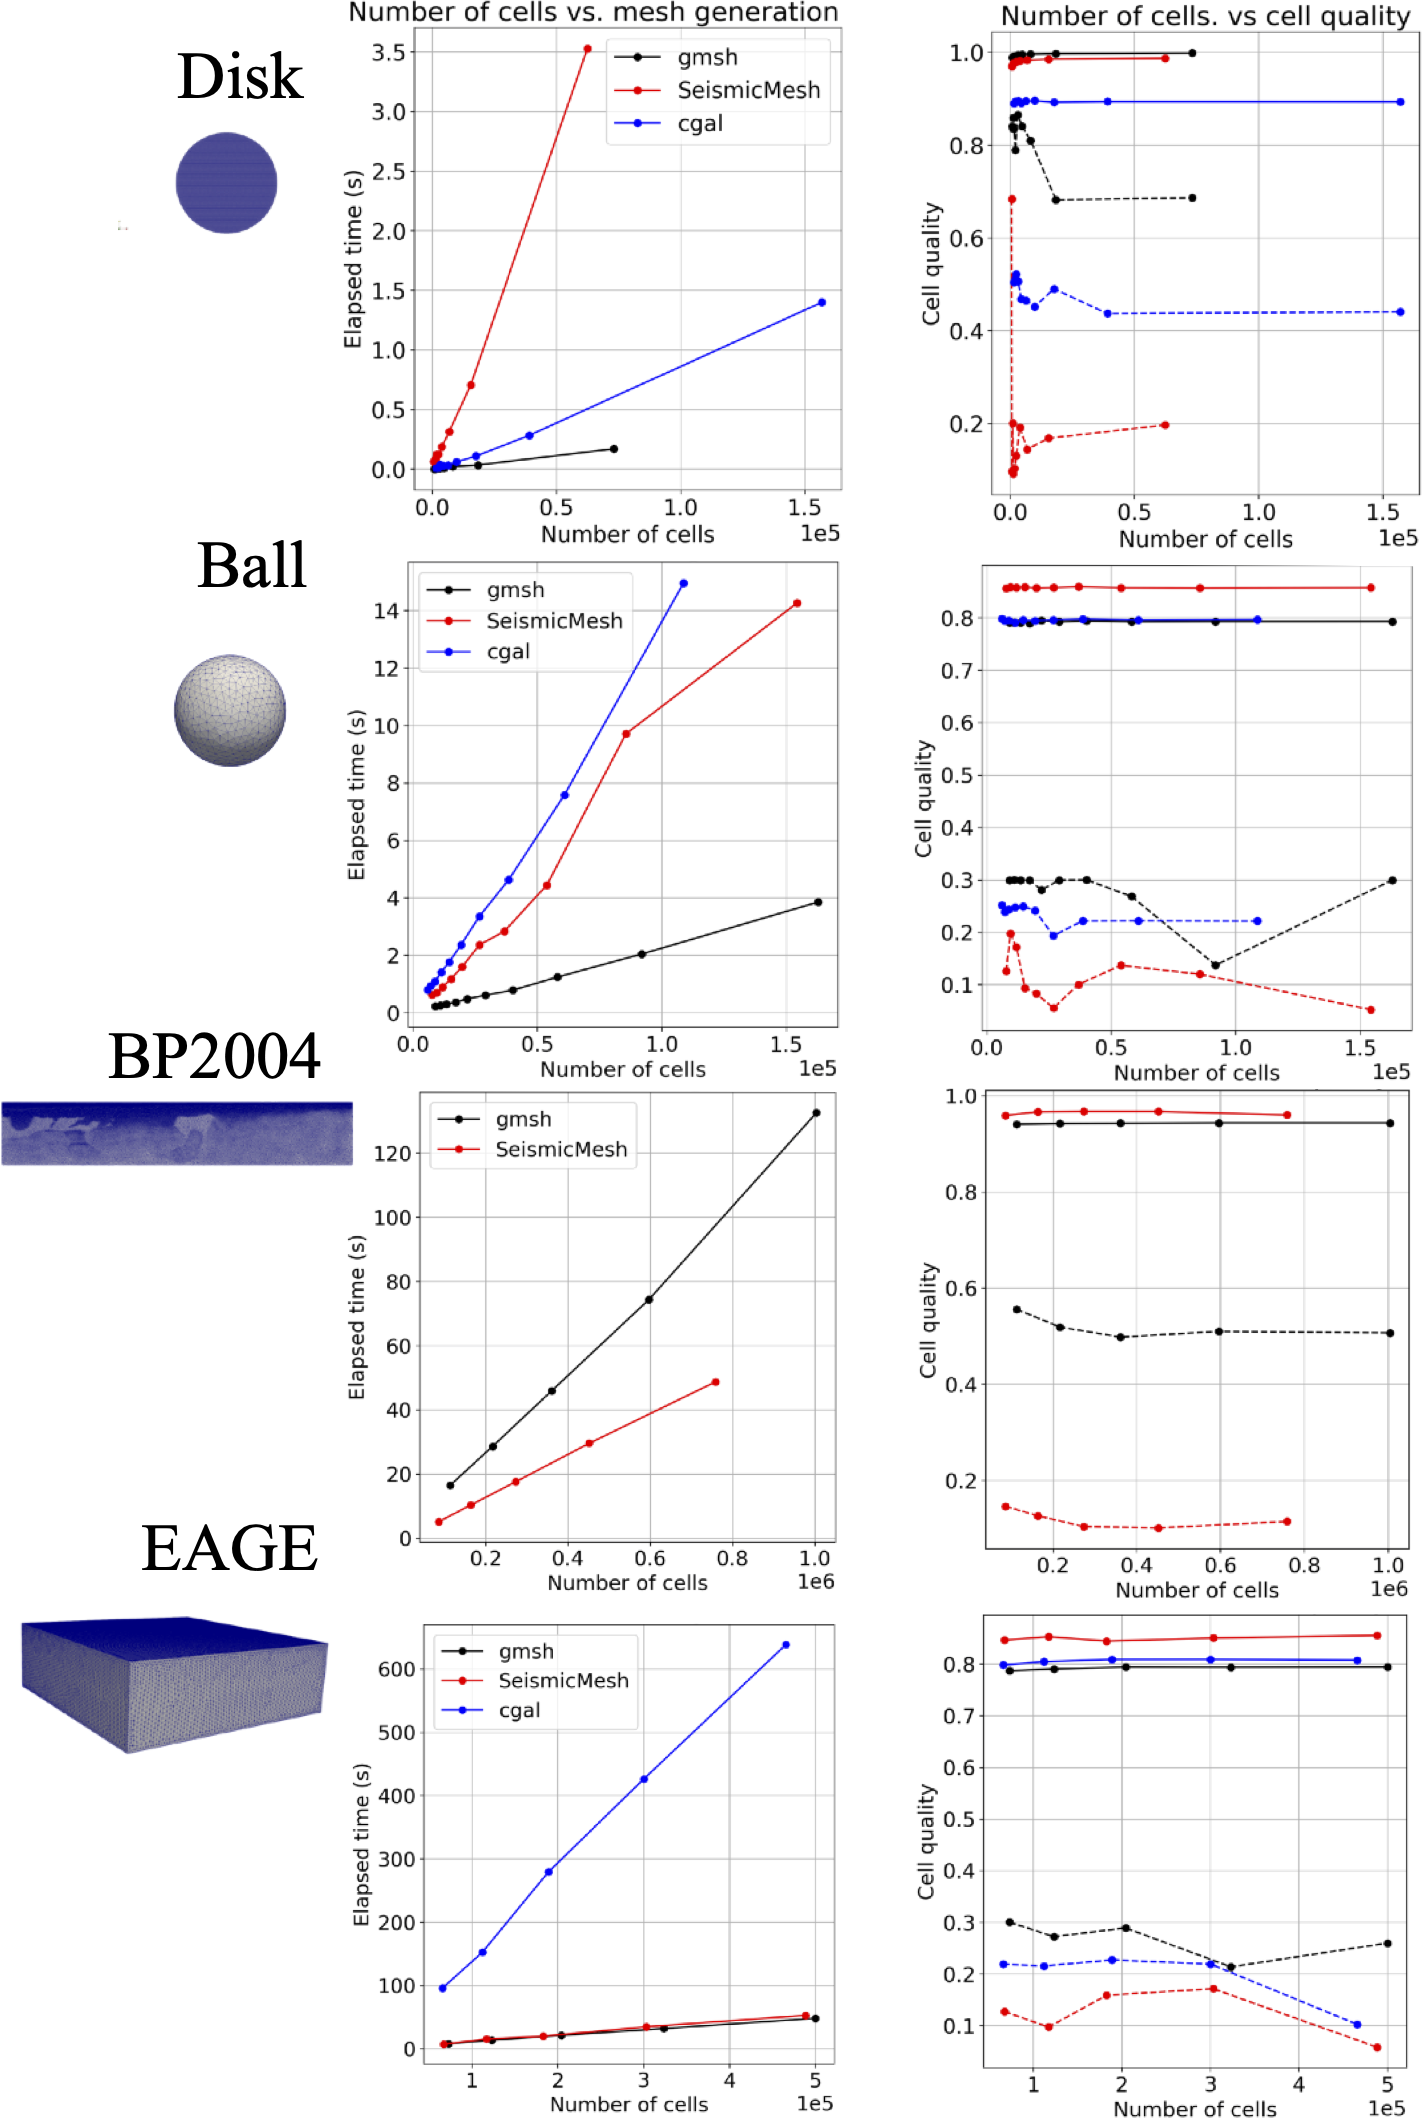
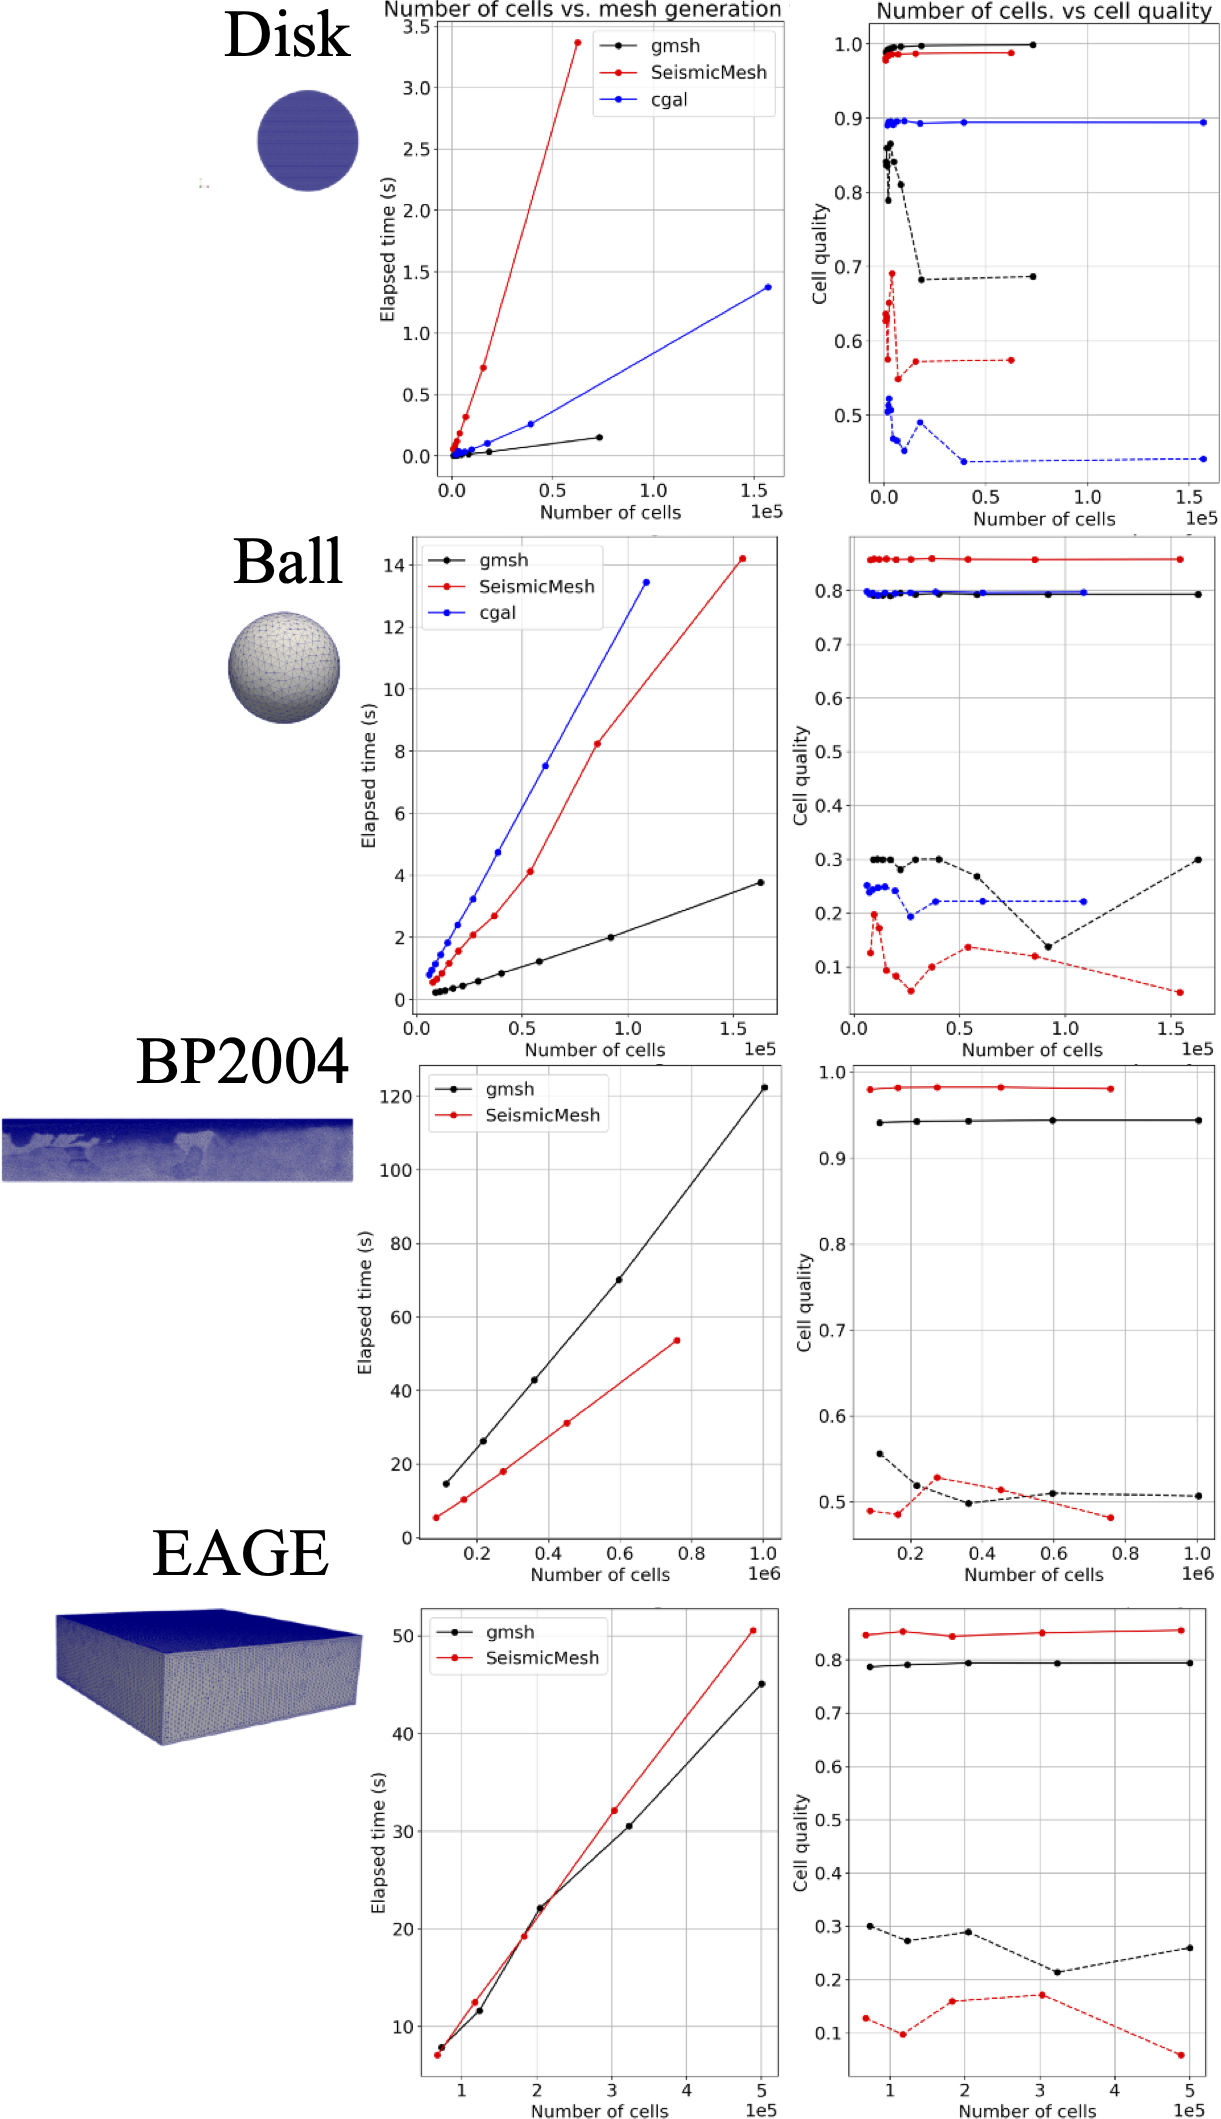
redo benchmarks (#145)

diff --git a/benchmarks/README.md b/benchmarks/README.md
@@ -31,7 +31,7 @@ Run `python benchmark_sphere.py` to run all benchmarks for a particular domain (
 Results
 ---------------
 
-The computer used for benchmarking is a PC running MacOS with Dual-Core Intel Core i5 clocked at 2.00 GHz with 8GB of RAM. All mesh generation programs have been compiled similarly with gcc v8.3.0 with the -O3 option. These benchmarks have been done using CGAL v5.0, gmsh 4.7.0, and SeismicMesh v3.0.3. Each statistic is reported as the average of 5 executions.
+The computer used for benchmarking is a PC running MacOS with Dual-Core Intel Core i5 clocked at 2.00 GHz with 8GB of RAM. All mesh generation programs have been compiled similarly with gcc v8.3.0 with the -O3 option. These benchmarks have been done using CGAL v5.0, gmsh 4.7.0, and SeismicMesh v3.1.4. Each statistic is reported as the average of 5 executions.
 
 Using [termplotlib](https://github.com/nschloe/termplotlib) and [meshplex](https://github.com/nschloe/meshplex) to calculate some mesh statistics, the benchmarks produce histograms of each cells' minimum [dihedral angles](https://en.wikipedia.org/wiki/Dihedral_angle) and histograms of cell quality (which was described above).
 
@@ -75,6 +75,6 @@ Details on experiments
 * Mesh generation with `cgal` is accomplished via [pygalmesh](https://github.com/nschloe/pygalmesh) version 0.8.2
 * For `cgal`'s 3D mesh generator, all default quality options are assumed (e.g., facet angle bound of 30 degrees and the radius edge bound 2--to their theoretical limit). A `cell_size` function is passed to create variable mesh resolution in a way that is approximately equivalent to the mesh size function in `SeismicMesh`. In 2D we do not use Lloyd smoothing as it can significantly increase mesh generation time (but produce higher quality cells).
 * Mesh generation with `gmsh` is accomplished via [pygmsh](https://github.com/nschloe/pygmsh) 7.0.0 with all default options and, similar to `cgal`, an approximately equivalent cell size function is passed.
-* For `SeismicMesh` version 3.0.4, we perform all examples with 25 meshing iterations with a psuedo-timestep of 0.30 and then run the sliver removal implemention to bound the diheral angle to 10 degrees in 3D and, in 2D, we delete any lower quality elements on the boundary (with a cell quality less than 10 percent).
+* For `SeismicMesh` version 3.1.4, we perform all examples with 25 meshing iterations with a psuedo-timestep of 0.30 and then run the sliver removal implemention to bound the diheral angle to 10 degrees in 3D and, in 2D, we delete any lower quality elements on the boundary (with a cell quality less than 10 percent).
 * All programs are executed in a seqeuntial mode. It's important to note however that a significant speed-up can be achieved for moderate to large problems using the [parallel capabilities](https://seismicmesh.readthedocs.io/en/master/tutorial.html#basics) provided in `SeismicMesh`. Threading based parallelism can be used with `gmsh` and `cgal` but these benchmarks have not been explored.
 * The scripts with the prefix `run` iterate over a range of relevant problem sizes to produce the timining and quality scales at different scales.

diff --git a/README.md b/README.md
@@ -463,13 +463,14 @@ Here we use SeismicMesh 3.0.4, [pygalmesh](https://github.com/nschloe/pygalmesh)
 
 Some key findings:
 
-* Mesh generation in 2D and 3D using analytical sizing functions is quickest when using `gmsh` followed by `cgal` and then `SeismicMesh`.
+* Mesh generation in 2D and 3D using analytical sizing functions is quickest when using `gmsh` but a close competition for `cgal` and `SeismicMesh`.
 * However, using mesh sizing functions defined on gridded interpolants significantly slow down both `gmsh` and `cgal`. In these cases, `SeismicMesh` and `gmsh` perform similarly both outperforming `cgal`'s 3D mesh generator in terms of mesh generation time.
 * `SeismicMesh` produces often comparable or higher mean cell qualities in 2D/3D than either `gmsh` or `cgal` and this may have implications on mesh improvement strategies as higher minimum quality may be realizable with some common mesh improvement strategies (e.g., NetGen)
 * All methods produce 3D triangulations that have a minimum dihedral angle > 10 degrees enabling stable numerical simulation.
 * Head over to the `benchmarks` folder for more detailed information on these experiments.
 
-![Summary of the benchmarks](https://user-images.githubusercontent.com/18619644/95696741-b923ae00-0c12-11eb-9d96-e52e5e9de7ae.jpg)
+![Summary of the benchmarks](https://user-images.githubusercontent.com/18619644/99197939-48713380-2774-11eb-8b83-46d18a79915f.png)
+
 
 
 * **In the figure for the panels that show cell quality, solid lines indicate the mean and dashed lines indicate the minimum cell quality in the mesh.**
